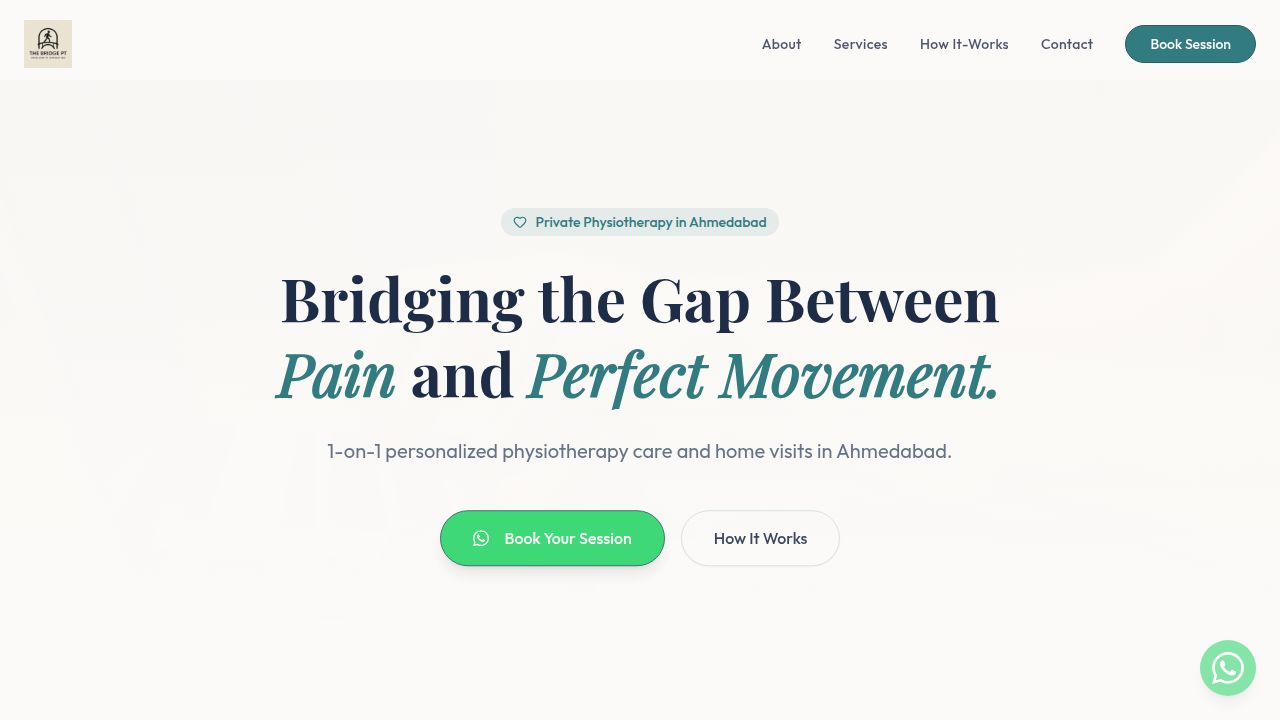
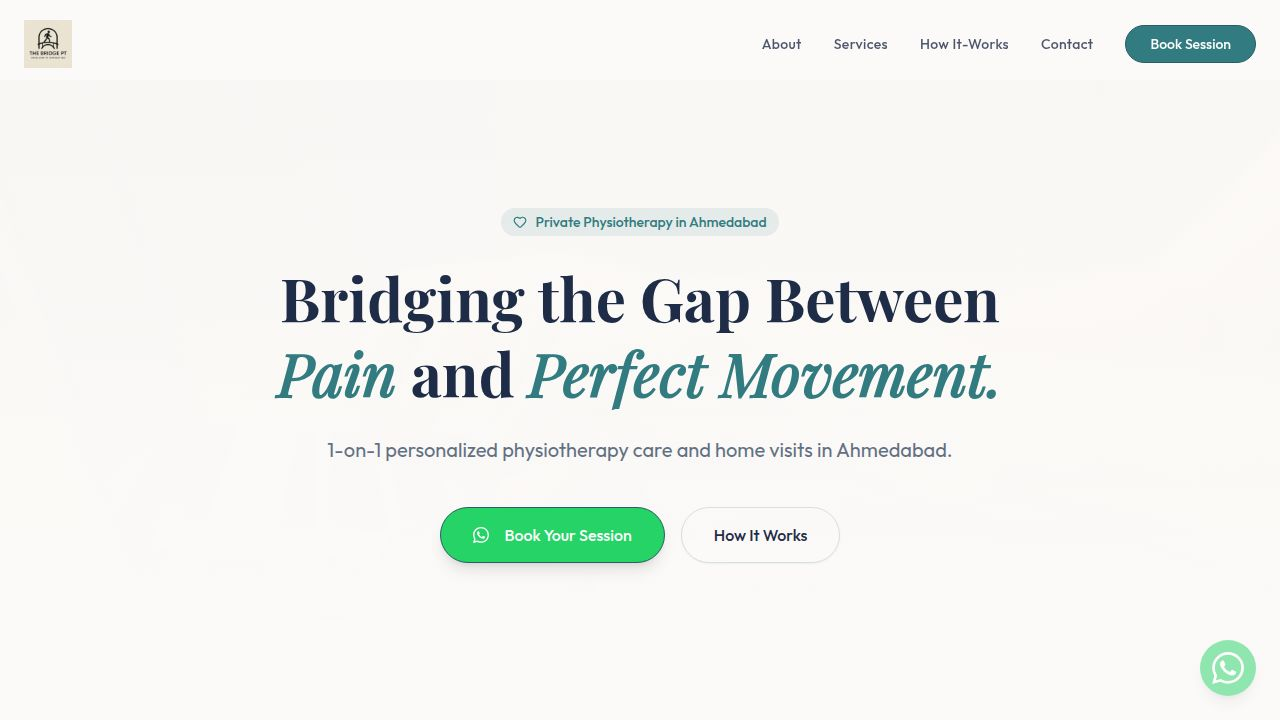
Fix animation type errors and improve build process
Corrects TypeScript errors by properly typing animation variants and makes environment variables for port and base path optional in the Vite configuration for local development.

Replit-Commit-Author: Agent
Replit-Commit-Session-Id: cafa3d67-ebd5-44dd-a198-8d1d441634ff
Replit-Commit-Checkpoint-Type: full_checkpoint
Replit-Commit-Event-Id: 256165e6-c5cc-4407-8b55-18e111230ce7
Replit-Commit-Screenshot-Url: https://storage.googleapis.com/screenshot-production-us-central1/df9c8b69-aef7-4327-b5b5-50692624d154/cafa3d67-ebd5-44dd-a198-8d1d441634ff/wa8RaD2
Replit-Helium-Checkpoint-Created: true

Changed region(s): [[0.3438, 0.7028, 0.5312, 0.7944], [0.25, 0.6111, 0.75, 0.6417], [0.5625, 0.7333, 0.625, 0.7639]]

diff --git a/artifacts/thebridgept/vite.config.ts b/artifacts/thebridgept/vite.config.ts
@@ -4,27 +4,8 @@ import tailwindcss from "@tailwindcss/vite";
 import path from "path";
 import runtimeErrorOverlay from "@replit/vite-plugin-runtime-error-modal";
 
-const rawPort = process.env.PORT;
-
-if (!rawPort) {
-  throw new Error(
-    "PORT environment variable is required but was not provided.",
-  );
-}
-
-const port = Number(rawPort);
-
-if (Number.isNaN(port) || port <= 0) {
-  throw new Error(`Invalid PORT value: "${rawPort}"`);
-}
-
-const basePath = process.env.BASE_PATH;
-
-if (!basePath) {
-  throw new Error(
-    "BASE_PATH environment variable is required but was not provided.",
-  );
-}
+const port = Number(process.env.PORT ?? 5173);
+const basePath = process.env.BASE_PATH ?? "/";
 
 export default defineConfig({
   base: basePath,

diff --git a/artifacts/thebridgept/src/pages/Home.tsx b/artifacts/thebridgept/src/pages/Home.tsx
@@ -1,4 +1,4 @@
-import { motion } from "framer-motion";
+import { motion, type Variants } from "framer-motion";
 import { Menu, X, CheckCircle, Activity, Heart, UserCheck, Stethoscope, ChevronLeft, ChevronRight, Star, Send, CheckCircle2, Linkedin, Instagram, Plus } from "lucide-react";
 import { SiWhatsapp } from "react-icons/si";
 import { useState, useEffect, useCallback } from "react";
@@ -123,12 +123,12 @@ export default function Home() {
     }
   };
 
-  const fadeUp = {
+  const fadeUp: Variants = {
     hidden: { opacity: 0, y: 20 },
     visible: { opacity: 1, y: 0, transition: { duration: 0.6, ease: "easeOut" } }
   };
 
-  const staggerContainer = {
+  const staggerContainer: Variants = {
     hidden: { opacity: 0 },
     visible: {
       opacity: 1,